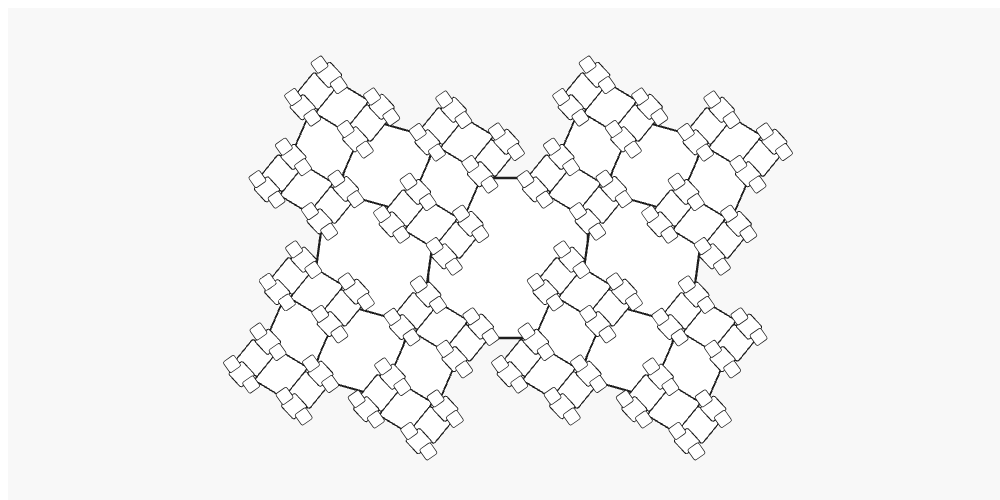
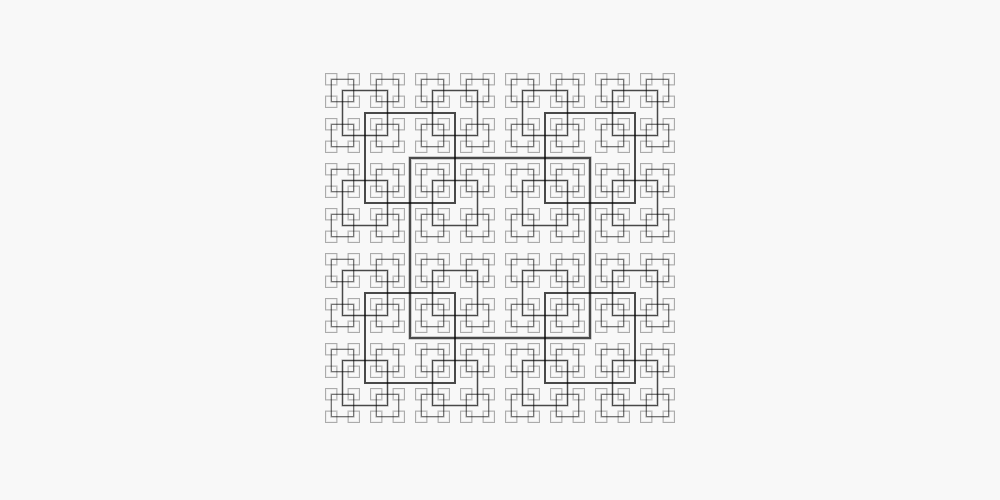
refactor: update shape grammar styling, optimize reaction-diffusion simulation parameters, and reorder geometry index entries

Changed region(s): [[0.217, 0.12, 0.806, 0.93]]

diff --git a/2-deterministic-system/shape-grammar/index.html b/2-deterministic-system/shape-grammar/index.html
@@ -2,55 +2,9 @@
 <html lang="ko">
 <head>
 <meta charset="utf-8">
-<title>Shape Grammar Explorer</title>
+<title>Shape Grammar</title>
 <script src="https://cdn.jsdelivr.net/npm/p5@1.9.4/lib/p5.min.js"></script>
 <script src="sketch.js" defer></script>
-<style>
-  body {
-    margin: 0;
-    padding: 0;
-    background-color: #1a1a1a;
-    color: #f0f0f0;
-    font-family: 'Helvetica Neue', Helvetica, Arial, sans-serif;
-    overflow: hidden;
-  }
-  #ui {
-    position: absolute;
-    bottom: 30px;
-    left: 30px;
-    pointer-events: none;
-    text-shadow: 0 2px 4px rgba(0,0,0,0.8);
-  }
-  h1 {
-    margin: 0 0 5px 0;
-    font-size: 24px;
-    letter-spacing: 2px;
-    text-transform: uppercase;
-    font-weight: 600;
-  }
-  p {
-    margin: 0;
-    font-size: 14px;
-    color: #aaaaaa;
-    letter-spacing: 1px;
-    line-height: 1.5;
-  }
-  #preset-name {
-    color: #ffffff;
-    font-weight: 500;
-  }
-  .highlight {
-    color: #ffffff;
-  }
-</style>
 </head>
-<body>
-  <div id="ui">
-    <h1>Shape Grammar</h1>
-    <p>Exercise 1: Deterministic 2D Patterns</p>
-    <br>
-    <p>Current Design: <span id="preset-name">Loading...</span></p>
-    <p class="highlight">Click anywhere to generate next pattern</p>
-  </div>
-</body>
+<body></body>
 </html>

diff --git a/4-autonomous-emergence/reaction-diffusion/sketch.js b/4-autonomous-emergence/reaction-diffusion/sketch.js
@@ -5,34 +5,36 @@ const PRESETS = [
   { f: 0.0367, k: 0.0649 },  // 유사분열
   { f: 0.030, k: 0.060 },    // 솔리톤
 ];
-const W = 160, BAND_H = 160, GAP = 10;
+const SIM_W = 500, SIM_H = 160, GAP = 10;
 const dA = 1.0, dB = 0.5;
 let sims, imgs;
 
 function makeSim() {
-  const A = new Float32Array(W * W).fill(1);
-  const B = new Float32Array(W * W).fill(0);
-  for (let n = 0; n < 8; n++) {
-    const cx = floor(random(16, W - 16)), cy = floor(random(16, W - 16));
+  const len = SIM_W * SIM_H;
+  const A = new Float32Array(len).fill(1);
+  const B = new Float32Array(len).fill(0);
+  for (let n = 0; n < 25; n++) {
+    const cx = floor(random(16, SIM_W - 16)), cy = floor(random(16, SIM_H - 16));
     for (let y = -3; y <= 3; y++)
       for (let x = -3; x <= 3; x++)
-        B[(cy + y) * W + cx + x] = 1;
+        B[(cy + y) * SIM_W + cx + x] = 1;
   }
-  return { A, B, A2: new Float32Array(W * W), B2: new Float32Array(W * W) };
+  return { A, B, A2: new Float32Array(len), B2: new Float32Array(len) };
 }
 
 function lap(F, x, y) {
-  const xm = (x - 1 + W) % W, xp = (x + 1) % W, ym = (y - 1 + W) % W, yp = (y + 1) % W;
-  return F[y * W + xm] * 0.2 + F[y * W + xp] * 0.2 + F[ym * W + x] * 0.2 + F[yp * W + x] * 0.2
-       + F[ym * W + xm] * 0.05 + F[ym * W + xp] * 0.05 + F[yp * W + xm] * 0.05 + F[yp * W + xp] * 0.05
-       - F[y * W + x];
+  const xm = (x - 1 + SIM_W) % SIM_W, xp = (x + 1) % SIM_W;
+  const ym = (y - 1 + SIM_H) % SIM_H, yp = (y + 1) % SIM_H;
+  return F[y * SIM_W + xm] * 0.2 + F[y * SIM_W + xp] * 0.2 + F[ym * SIM_W + x] * 0.2 + F[yp * SIM_W + x] * 0.2
+       + F[ym * SIM_W + xm] * 0.05 + F[ym * SIM_W + xp] * 0.05 + F[yp * SIM_W + xm] * 0.05 + F[yp * SIM_W + xp] * 0.05
+       - F[y * SIM_W + x];
 }
 
 function step(sim, f, k) {
   const { A, B, A2, B2 } = sim;
-  for (let y = 0; y < W; y++) {
-    for (let x = 0; x < W; x++) {
-      const i = y * W + x;
+  for (let y = 0; y < SIM_H; y++) {
+    for (let x = 0; x < SIM_W; x++) {
+      const i = y * SIM_W + x;
       const a = A[i], b = B[i];
       const abb = a * b * b;
       A2[i] = a + dA * lap(A, x, y) - abb + f * (1 - a);
@@ -48,9 +50,9 @@ function reseed() {
 }
 
 function setup() {
-  createCanvas(500, 500);
+  createCanvas(SIM_W, SIM_H * 3 + GAP * 2); // 500x500
   pixelDensity(1);
-  imgs = PRESETS.map(() => createImage(W, W));
+  imgs = PRESETS.map(() => createImage(SIM_W, SIM_H));
   reseed();
 }
 
@@ -60,13 +62,14 @@ function draw() {
     for (let i = 0; i < 8; i++) step(sim, PRESETS[idx].f, PRESETS[idx].k);
     const img = imgs[idx];
     img.loadPixels();
-    for (let i = 0; i < W * W; i++) {
+    for (let i = 0; i < SIM_W * SIM_H; i++) {
       const v = constrain(sim.A[i] - sim.B[i], 0, 1) * 255;
       img.pixels[i * 4] = img.pixels[i * 4 + 1] = img.pixels[i * 4 + 2] = v;
       img.pixels[i * 4 + 3] = 255;
     }
     img.updatePixels();
-    image(img, 0, idx * (BAND_H + GAP), width, BAND_H);
+    const yPos = idx * (SIM_H + GAP);
+    image(img, 0, yPos, SIM_W, SIM_H);
   });
 }
 

diff --git a/index.html b/index.html
@@ -197,15 +197,6 @@
         <p>Direct Control & Rules</p>
       </div>
       <div class="grid">
-        <a href="1-geometry/wallpaper-group/index.html" class="card">
-          <div class="card-image">
-            <img src="screenshots/1-geometry_wallpaper-group.png" alt="벽지군" loading="lazy">
-          </div>
-          <div class="card-content">
-            <h3>벽지군</h3>
-            <p>Wallpaper Groups</p>
-          </div>
-        </a>
         <a href="1-geometry/frieze-group/index.html" class="card">
           <div class="card-image">
             <img src="screenshots/1-geometry_frieze-group.png" alt="프리즈군" loading="lazy">
@@ -213,6 +204,15 @@
           <div class="card-content">
             <h3>프리즈군</h3>
             <p>Frieze Groups</p>
+          </div>
+        </a>
+        <a href="1-geometry/wallpaper-group/index.html" class="card">
+          <div class="card-image">
+            <img src="screenshots/1-geometry_wallpaper-group.png" alt="벽지군" loading="lazy">
+          </div>
+          <div class="card-content">
+            <h3>벽지군</h3>
+            <p>Wallpaper Groups</p>
           </div>
         </a>
         <a href="1-geometry/kaleidoscope/index.html" class="card">

diff --git a/2-deterministic-system/shape-grammar/sketch.js b/2-deterministic-system/shape-grammar/sketch.js
@@ -106,15 +106,10 @@ let shapes = [];
 let drawingProgress = 0;
 
 function setup() {
-  let canvas = createCanvas(windowWidth, windowHeight);
-  canvas.style('display', 'block');
+  createCanvas(500, 500);
   loadPreset(currentPresetIndex);
 }
 
-function windowResized() {
-  resizeCanvas(windowWidth, windowHeight);
-  loadPreset(currentPresetIndex);
-}
 
 function applyPreset(preset, x, y, s, a, depth) {
   if (depth <= 0 || s < 2 || shapes.length > 15000) return;
@@ -159,10 +154,10 @@ function loadPreset(index) {
 }
 
 function draw() {
-  background('#1a1a1a');
+  background(248);
   
   // Draw shapes up to drawingProgress
-  stroke(255, 255, 255, 180);
+  stroke(0, 180);
   noFill();
   
   let drawCount = min(floor(drawingProgress), shapes.length);